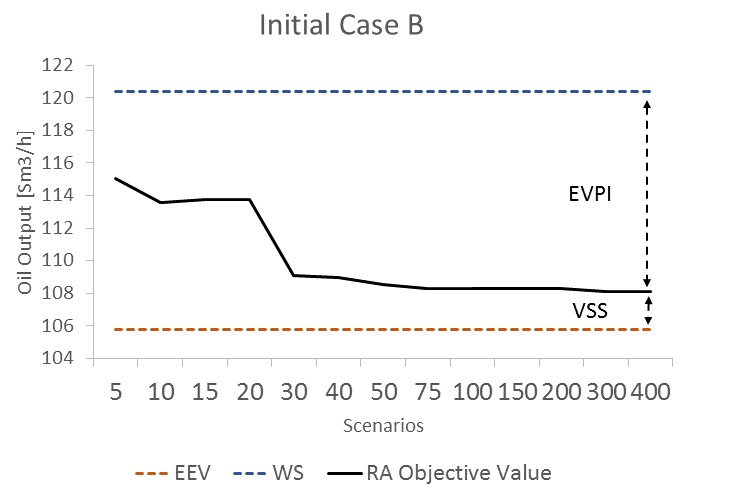
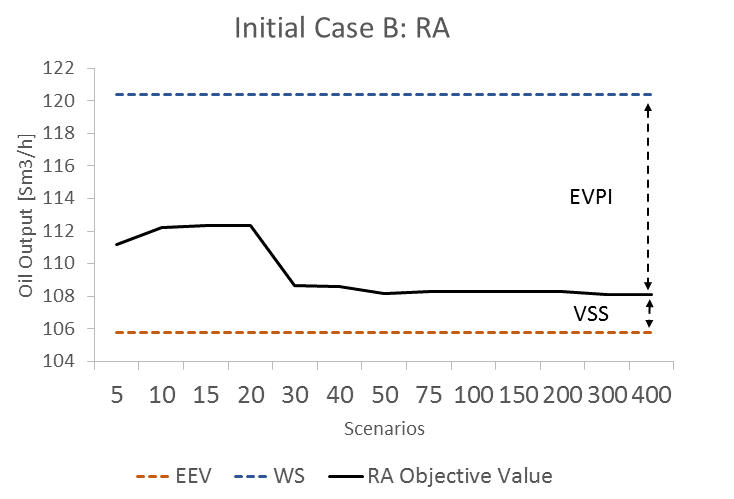
era

diff --git a/recourse_algorithm.py b/recourse_algorithm.py
@@ -149,10 +149,15 @@ def iteration(model, init_chokes, first_sol, changes, true_well_curves, verbose=
     
     #since we start by checking for #changes+1, we need to iterate an 'extra' time including 0
     for c in range(changes, -1, -1):
-        suggested_tot_oil = sum([true_well_curves[w].predict(new_chokes[w], "oil") for w in t.wellnames_2])
-        suggested_tot_gas = sum([true_well_curves[w].predict(new_chokes[w], "gas") for w in t.wellnames_2])
+        suggested_tot_oil_all_changes = sum([true_well_curves[w].predict(new_chokes[w], "oil") for w in t.wellnames_2])
+        suggested_tot_gas_all_changes = sum([true_well_curves[w].predict(new_chokes[w], "gas") for w in t.wellnames_2])
         inf_single, tot_oil, tot_gas, impl_chokes, change_well, change_gas = check_and_impl_change(true_well_curves, tot_oil, tot_gas, impl_chokes, new_chokes, model.well_cap, model.tot_exp_cap, from_infeasible)
-        infeasible_count+=inf_single
+        
+#        suggested_tot_oil_one_change = sum([true_well_curves[w].predict(impl_chokes[w], "oil") for w in t.wellnames_2])
+#        suggested_tot_gas_one_change = sum([true_well_curves[w].predict(impl_chokes[w], "gas") for w in t.wellnames_2])
+
+
+        infeasible_count+=inf_single 
         
         if inf_single<1:
             from_infeasible=False
@@ -171,13 +176,26 @@ def iteration(model, init_chokes, first_sol, changes, true_well_curves, verbose=
             print("\nimpl chokes:\t\t\tsuggested chokes:")
             for w in t.wellnames_2:
                 print(w+"\t", round(impl_chokes[w],2), "\t\t\t", round(new_chokes[w],2))
-            print("\ntot oil:\t", tot_oil,"\tsuggested tot oil:\t", suggested_tot_oil, "\ntot gas:\t", tot_gas, "\tsuggested tot gas:\t", suggested_tot_gas)
+                
+            print("\ntot oil:\t", tot_oil,"\tsugg. tot oil after all changes:\t", suggested_tot_oil_all_changes, "\ntot gas:\t", tot_gas, "\tsugg. tot gas after all changes:\t", suggested_tot_gas_all_changes)
             print("==================================================\n")
             
             
 #        print("res\n", opt_results)
         old_chokes = {key: value for key, value in impl_chokes.items()}
         model.set_chokes(impl_chokes)
+        
+        ###TEST
+#        model.set_changes(0)
+#        model.set_tot_gas(320000)
+#        model.solve(0)
+#        solz = model.get_solution()
+#        print("check: chokes:\n", model.get_chokes())
+#        suggested_tot_oil_one_change = solz["tot_oil"].values[0]
+#        suggested_tot_gas_one_change = solz["tot_gas"].values[0]
+#        print("*****\n estimated total oil after 1 change:", suggested_tot_oil_one_change, "\n estimated total gas after 1 change:", suggested_tot_gas_one_change,"\n*****")
+#        model.set_tot_gas(225000)
+        #TEST
         model.set_changes(c)
         
         #if we came from infeasibility, only care about whether or not we ended up in infeasibility
@@ -249,7 +267,6 @@ def check_and_impl_change(true_well_curves, tot_oil, tot_gas, old_chokes, new_ch
     change_gas = true_well_curves[change_well].predict(temp_chokes[change_well], "gas")
     old_oil = true_well_curves[change_well].predict(old_chokes[change_well], "oil")
     change_oil = true_well_curves[change_well].predict(temp_chokes[change_well], "oil")
-    
     if(change_gas-0.01 > indiv_cap[change_well] or tot_gas+(change_gas-old_gas)-0.01 > tot_cap):
         if(from_infeasible):
             #implement the change

diff --git a/recourse_models.py b/recourse_models.py
@@ -91,7 +91,7 @@ class Recourse_Model:
 #        if case==2:
         if(not w_relative_change):
             if(init_name=="over_cap"):
-                self.w_relative_change = {well : [0.75] for well in self.wellnames}
+                self.w_relative_change = {well : [0.45] for well in self.wellnames}
             else:
                 self.w_relative_change = {well : [0.4] for well in self.wellnames}
         else:
